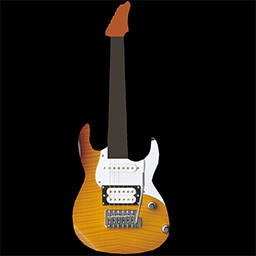
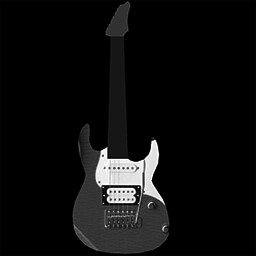
modify

Changed region(s): [[0.2812, 0.0, 0.6875, 1.0], [0.5938, 0.5312, 0.625, 0.5938]]

diff --git a/CuiJian/GameViewController.swift b/CuiJian/GameViewController.swift
@@ -34,7 +34,8 @@ class GameViewController: UIViewController, SCNSceneRendererDelegate {
     
     override func viewDidLoad() {
         super.viewDidLoad()
-        
+        NSNotificationCenter.defaultCenter().addObserver(self, selector: Selector("ApplicationDidEnterBackground"), name: "applicationDidEnterBackground", object: nil)
+        NSNotificationCenter.defaultCenter().addObserver(self, selector: Selector("ApplicationWillEnterForeground"), name: "applicationWillEnterForeground", object: nil)
         do {
             try self.player = AVAudioPlayer(contentsOfURL: NSURL(string: NSBundle.mainBundle().pathForResource("bg", ofType: "mp3")!)!)
             self.player?.numberOfLoops = Int.max
@@ -58,6 +59,15 @@ class GameViewController: UIViewController, SCNSceneRendererDelegate {
         }
         else{
             self.initSence()
+        }
+    }
+    
+    func ApplicationDidEnterBackground(){
+        self.player?.stop()
+    }
+    func ApplicationWillEnterForeground(){
+        if (UIApplication.sharedApplication().delegate as! AppDelegate).songPlayer.player?.playing != true{
+            self.player?.play()
         }
     }
     
@@ -135,24 +145,15 @@ class GameViewController: UIViewController, SCNSceneRendererDelegate {
         
         let light = SCNLight()
         light.type = SCNLightTypeOmni
-        light.color = UIColor(red: 0.3, green: 0.3, blue: 0.3, alpha: 1.0)
+        light.color = UIColor(red: 1, green: 1, blue: 1, alpha: 1.0)
         let lightNode = SCNNode()
         lightNode.position = SCNVector3(0, 0, 0)
         lightNode.light = light
         rootScene.rootNode.addChildNode(lightNode)
         
-        let light1 = SCNLight()
-        light1.type = SCNLightTypeDirectional
-        light1.color = UIColor(red: 0.1, green: 0.1, blue: 0.1, alpha: 1.0)
-        let lightNode1 = SCNNode()
-        lightNode1.rotation = SCNVector4Make(1, 0, 0, Float(-M_PI / 2))
-        lightNode1.light = light1
-        lightNode1.position = SCNVector3(0, 500, 0)
-        rootScene.rootNode.addChildNode(lightNode1)
-        
         let light2 = SCNLight()
         light2.type = SCNLightTypeSpot
-        light2.color = UIColor(red: 0.4, green: 0.4, blue: 0.4, alpha: 1.0)
+        light2.color = UIColor(red: 0.3, green: 0.3, blue: 0.3, alpha: 1.0)
         let lightNode2 = SCNNode()
         lightNode2.rotation = SCNVector4Make(1, 0, 0, Float(-M_PI / 2))
         lightNode2.light = light2

diff --git a/CuiJian/AppDelegate.swift b/CuiJian/AppDelegate.swift
@@ -29,9 +29,10 @@ class AppDelegate: UIResponder, UIApplicationDelegate {
         } catch let error as NSError {
             print(error.localizedDescription)
         }
-        
+        UIApplication.sharedApplication().beginReceivingRemoteControlEvents()
         songPlayer.loadSong()
         HelperFuc.refreshData()
+        UIScreen.mainScreen().brightness = 1.0;
         return true
     }
 
@@ -43,16 +44,20 @@ class AppDelegate: UIResponder, UIApplicationDelegate {
     func applicationDidEnterBackground(application: UIApplication) {
         // Use this method to release shared resources, save user data, invalidate timers, and store enough application state information to restore your application to its current state in case it is terminated later.
         // If your application supports background execution, this method is called instead of applicationWillTerminate: when the user quits.
+        
+        NSNotificationCenter.defaultCenter().postNotificationName("applicationDidEnterBackground", object: nil)
+
         UIApplication.sharedApplication().beginReceivingRemoteControlEvents()
         self.becomeFirstResponder()
     }
-
+    
     func applicationWillEnterForeground(application: UIApplication) {
+        UIScreen.mainScreen().brightness = 1.0;
+        NSNotificationCenter.defaultCenter().postNotificationName("applicationWillEnterForeground", object: nil)
+
         // Called as part of the transition from the background to the inactive state; here you can undo many of the changes made on entering the background.
-        UIApplication.sharedApplication().endReceivingRemoteControlEvents()
+        //UIApplication.sharedApplication().endReceivingRemoteControlEvents()
         self.resignFirstResponder()
-        
-        
     }
 
     func applicationDidBecomeActive(application: UIApplication) {

diff --git a/CuiJian/News/NewsView/NewsCell.m b/CuiJian/News/NewsView/NewsCell.m
@@ -55,7 +55,7 @@
     
     self.newsDetail = [[UILabel alloc]init];
     self.newsDetail.numberOfLines = 0;
-    self.newsDetail.textColor = [UIColor colorWithRed:136/255.0 green:131/255.0 blue:110/255.0 alpha:1];
+    self.newsDetail.textColor = [UIColor colorWithRed:136/255.0 green:131/255.0 blue:109/255.0 alpha:1];
     [self.contentView addSubview:self.newsDetail];
     
     self.newsTitle = [[UILabel alloc]init];
@@ -64,7 +64,7 @@
     [self.contentView addSubview:self.newsTitle];
     
     self.newsTime = [[UILabel alloc]init];
-    self.newsTime.textColor = [UIColor colorWithRed:136/255.0 green:131/255.0 blue:110/255.0 alpha:1];
+    self.newsTime.textColor = [UIColor colorWithRed:136/255.0 green:131/255.0 blue:109/255.0 alpha:1];
     [self.newsTime setFont:[UIFont systemFontOfSize:11]];
     [self.contentView addSubview:self.newsTime];
     

diff --git a/CuiJian/HelperFuc.m b/CuiJian/HelperFuc.m
@@ -60,6 +60,9 @@
         for (NSDictionary * dict in dic) {
             NewsModel * m = [[NewsModel alloc]init];
             [m setValuesForKeysWithDictionary:dict];
+            if (m.post_id == nil) {
+                continue;
+            }
             [dataArray addObject:m];
             AppDelegate * myDelegate = [[UIApplication sharedApplication]delegate];
             NSManagedObjectContext * context1 = myDelegate.managedObjectContext;
